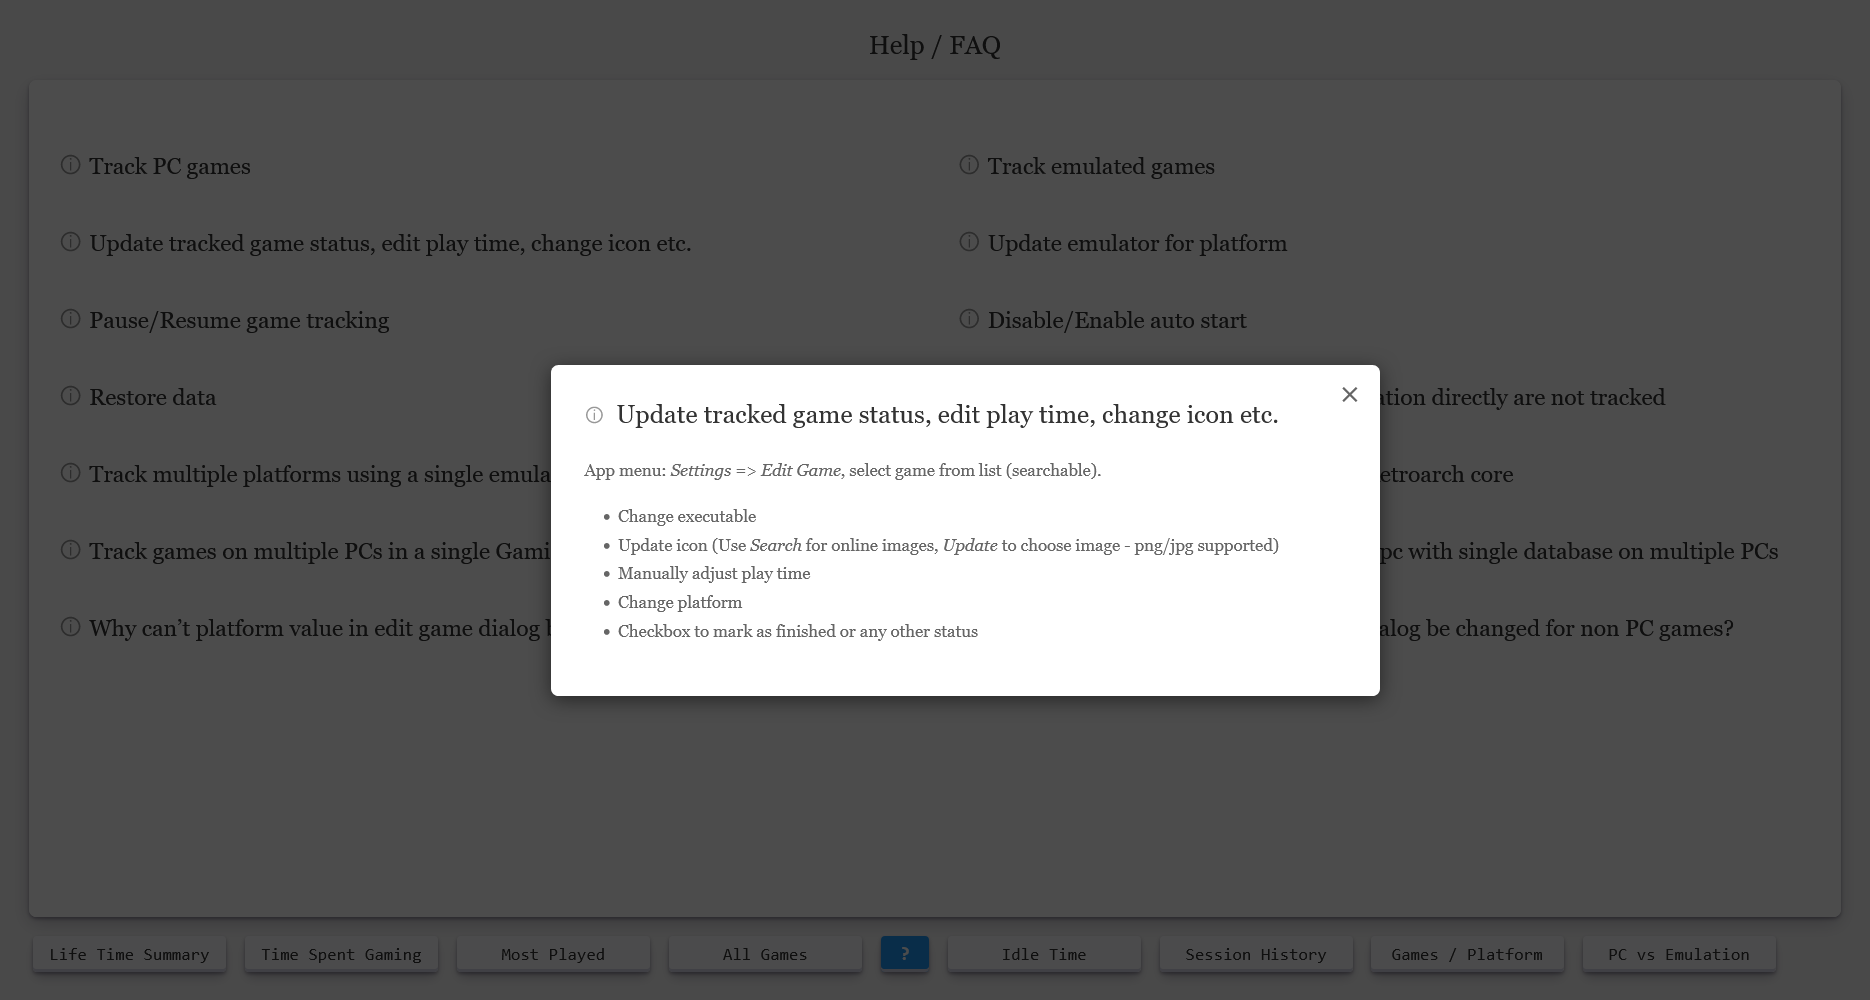
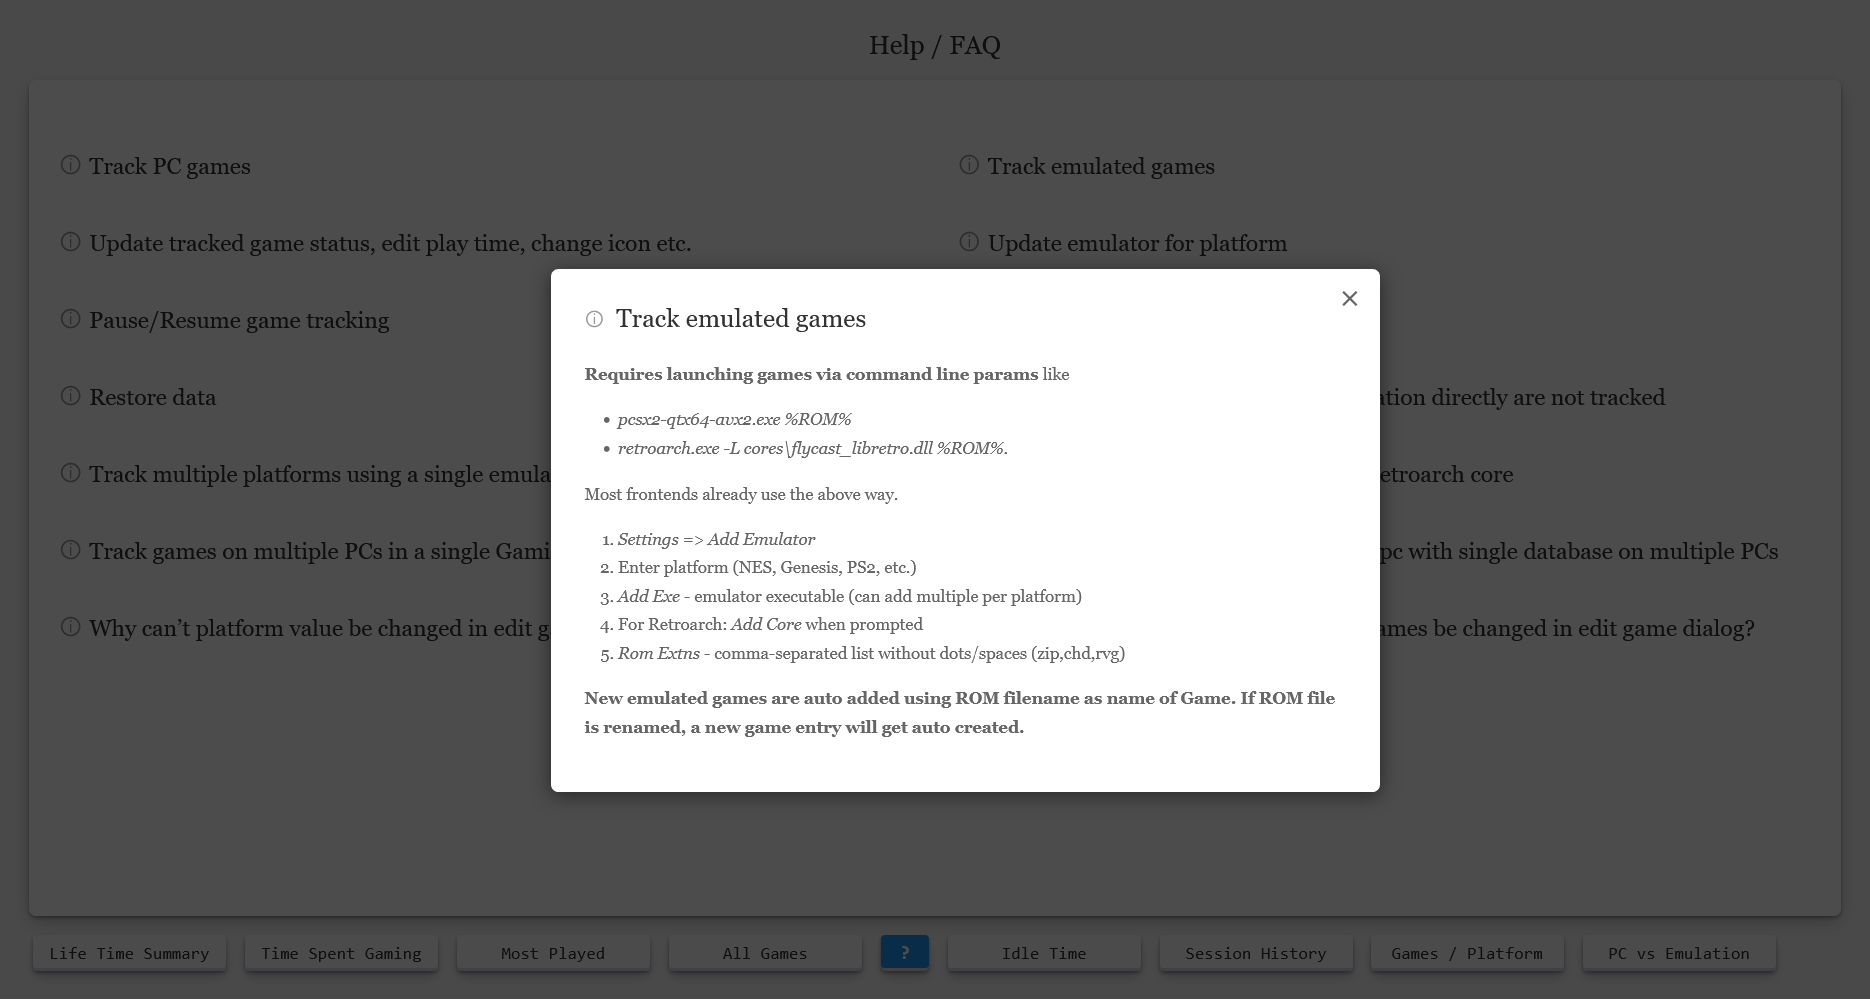
Bump version for new release

Changed region(s): [[0.1861, 0.248, 0.7444, 0.806], [0.0, 0.992, 1.0, 1.0], [0.7444, 0.62, 0.9305, 0.651]]

diff --git a/GamingGaiden.cs b/GamingGaiden.cs
@@ -12,7 +12,7 @@ using System.Management.Automation.Runspaces;
 [assembly: AssemblyCopyright("© 2023 Kulvinder Singh")]
 
 // Version information Year.Month.Day
-[assembly: AssemblyFileVersion("2026.05.16")]
+[assembly: AssemblyFileVersion("2026.07.05")]
 
 // Setting ComVisible to false makes the types in this assembly not visible to COM components
 [assembly: ComVisible(false)]

diff --git a/Readme.md b/Readme.md
@@ -42,13 +42,10 @@ Tiny tray application for windows to track gaming time. Helps you record your ga
 > Gaming Gaiden is only available for download on this Github repo. Any copy available elsewhere could be malicious.
 
 ## How to install / upgrade / use
-1. Open a Powershell window as admin and run below command to allow powershell modules to load on your system. Choose `Yes` when prompted.
-    - `Set-ExecutionPolicy -ExecutionPolicy RemoteSigned -Scope CurrentUser`
-
-2. Download ***GamingGaiden.zip*** from the [latest release](https://github.com/kulvind3r/GamingGaiden/releases/latest).
-3. Extract ***GamingGaiden*** folder and Run `Install.bat`. Choose Yes/No for autostart at Boot.
-4. Use the shortcut on desktop / start menu for launching the application.
-5. Regularly backup your `GamingGaiden.db` and `backups` folder to avoid data loss. Click ***Settings => Open Install Directory*** option in app menu to find them.
+1. Download ***GamingGaiden.zip*** from the [latest release](https://github.com/kulvind3r/GamingGaiden/releases/latest).
+2. Extract ***GamingGaiden*** folder and Run `Install.bat`. Choose Yes/No for autostart at Boot.
+3. Use the shortcut on desktop / start menu for launching the application.
+4. Regularly backup your `GamingGaiden.db` and `backups` folder to avoid data loss. Click ***Settings => Open Install Directory*** option in app menu to find them.
 
 ## How to uninstall
 Run `Uninstall Gaming Gaiden` from the `Gaming Gaiden` start menu folder. `GamingGaiden.db` and `backups` are not removed for preserving data.

diff --git a/Manual.md b/Manual.md
@@ -95,7 +95,7 @@ Then, on each installation of Gaming Gaiden set the correct pc as current pc in 
 
 Games will be tagged to the gaming pc on which they are played and pc usage will be updated using session times.
 
-### Why can't platform value in edit game dialog be changed?
+### Why can't platform value be changed in edit game dialog?
 
 Platform is tied to mode of addition for a game. A PC game is added explicitly while emulator games are added automatically on detection.
 
@@ -103,7 +103,7 @@ Platform is auto updated for emulator games based on which emulator the game was
 
 Allowing platform to be editable can lead to intentional or accidental bad updates causing statistics to be get mis labelled and bad data to be recorded.
 
-### Why can't exe list value in edit game dialog be changed for non PC games?
+### Why can't exe list value for emulated games be changed in edit game dialog?
 
 Emulated games belong to a particular platform and the exes mapped against the emulated games are the emulator exes of that platform.
 